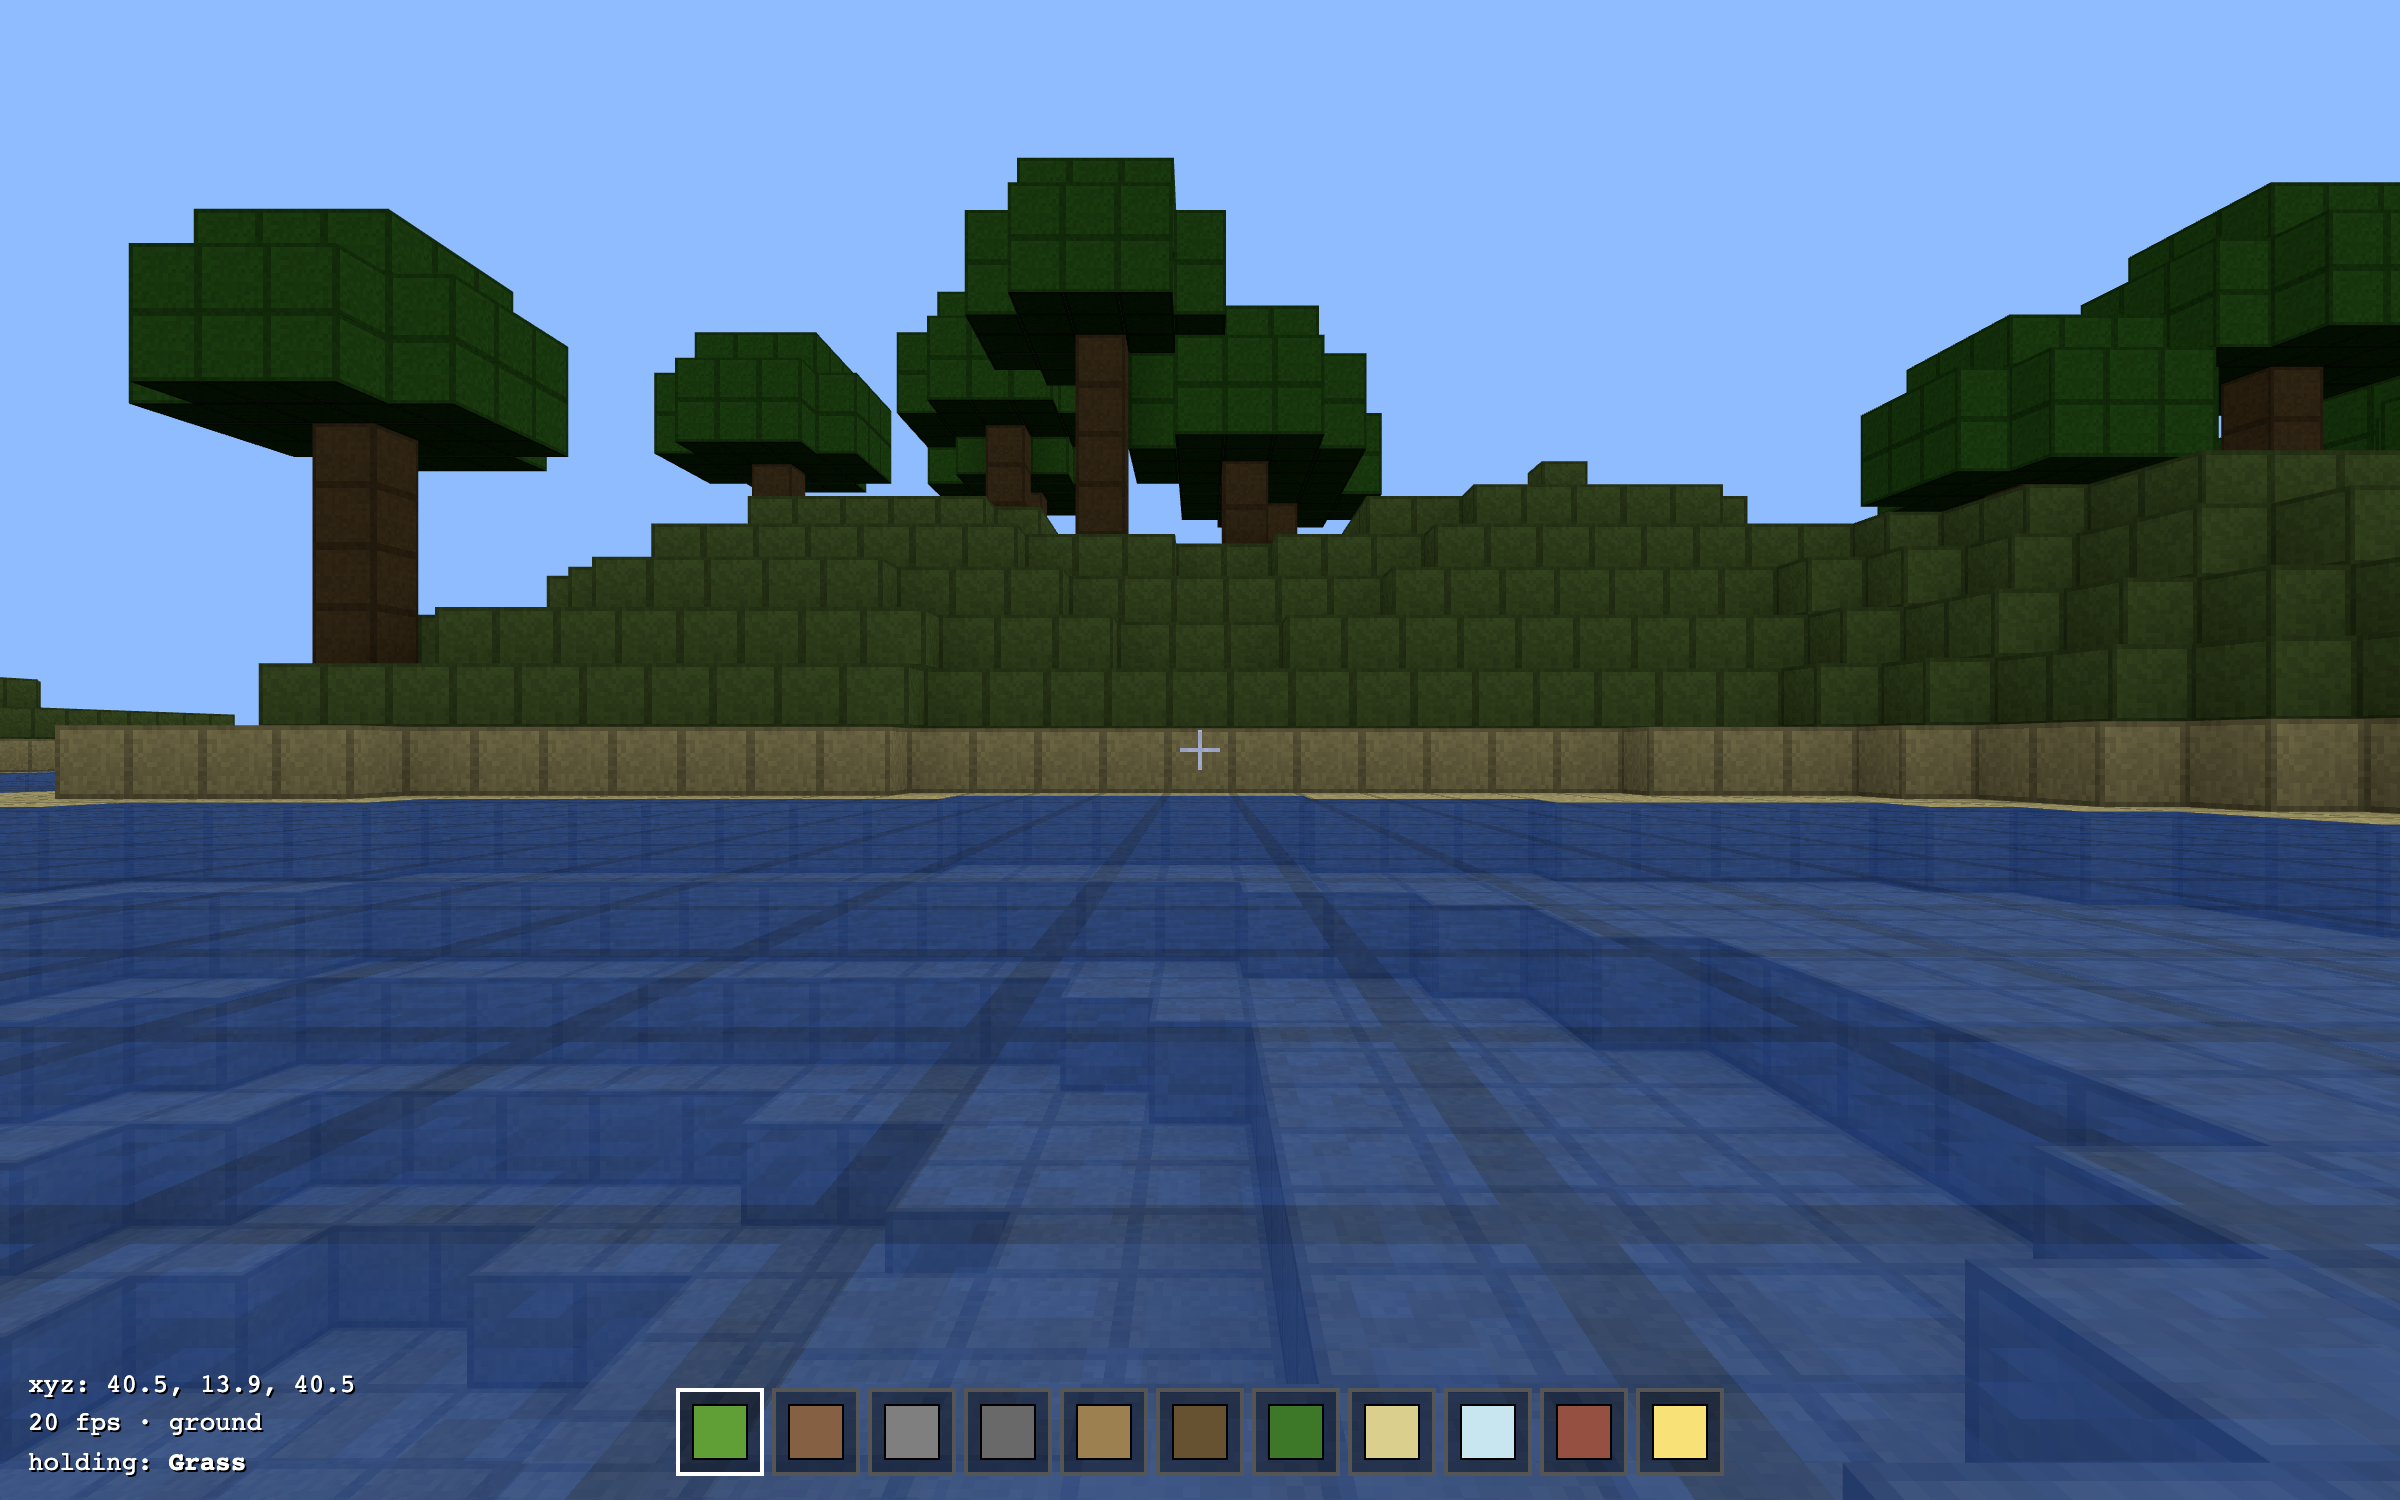
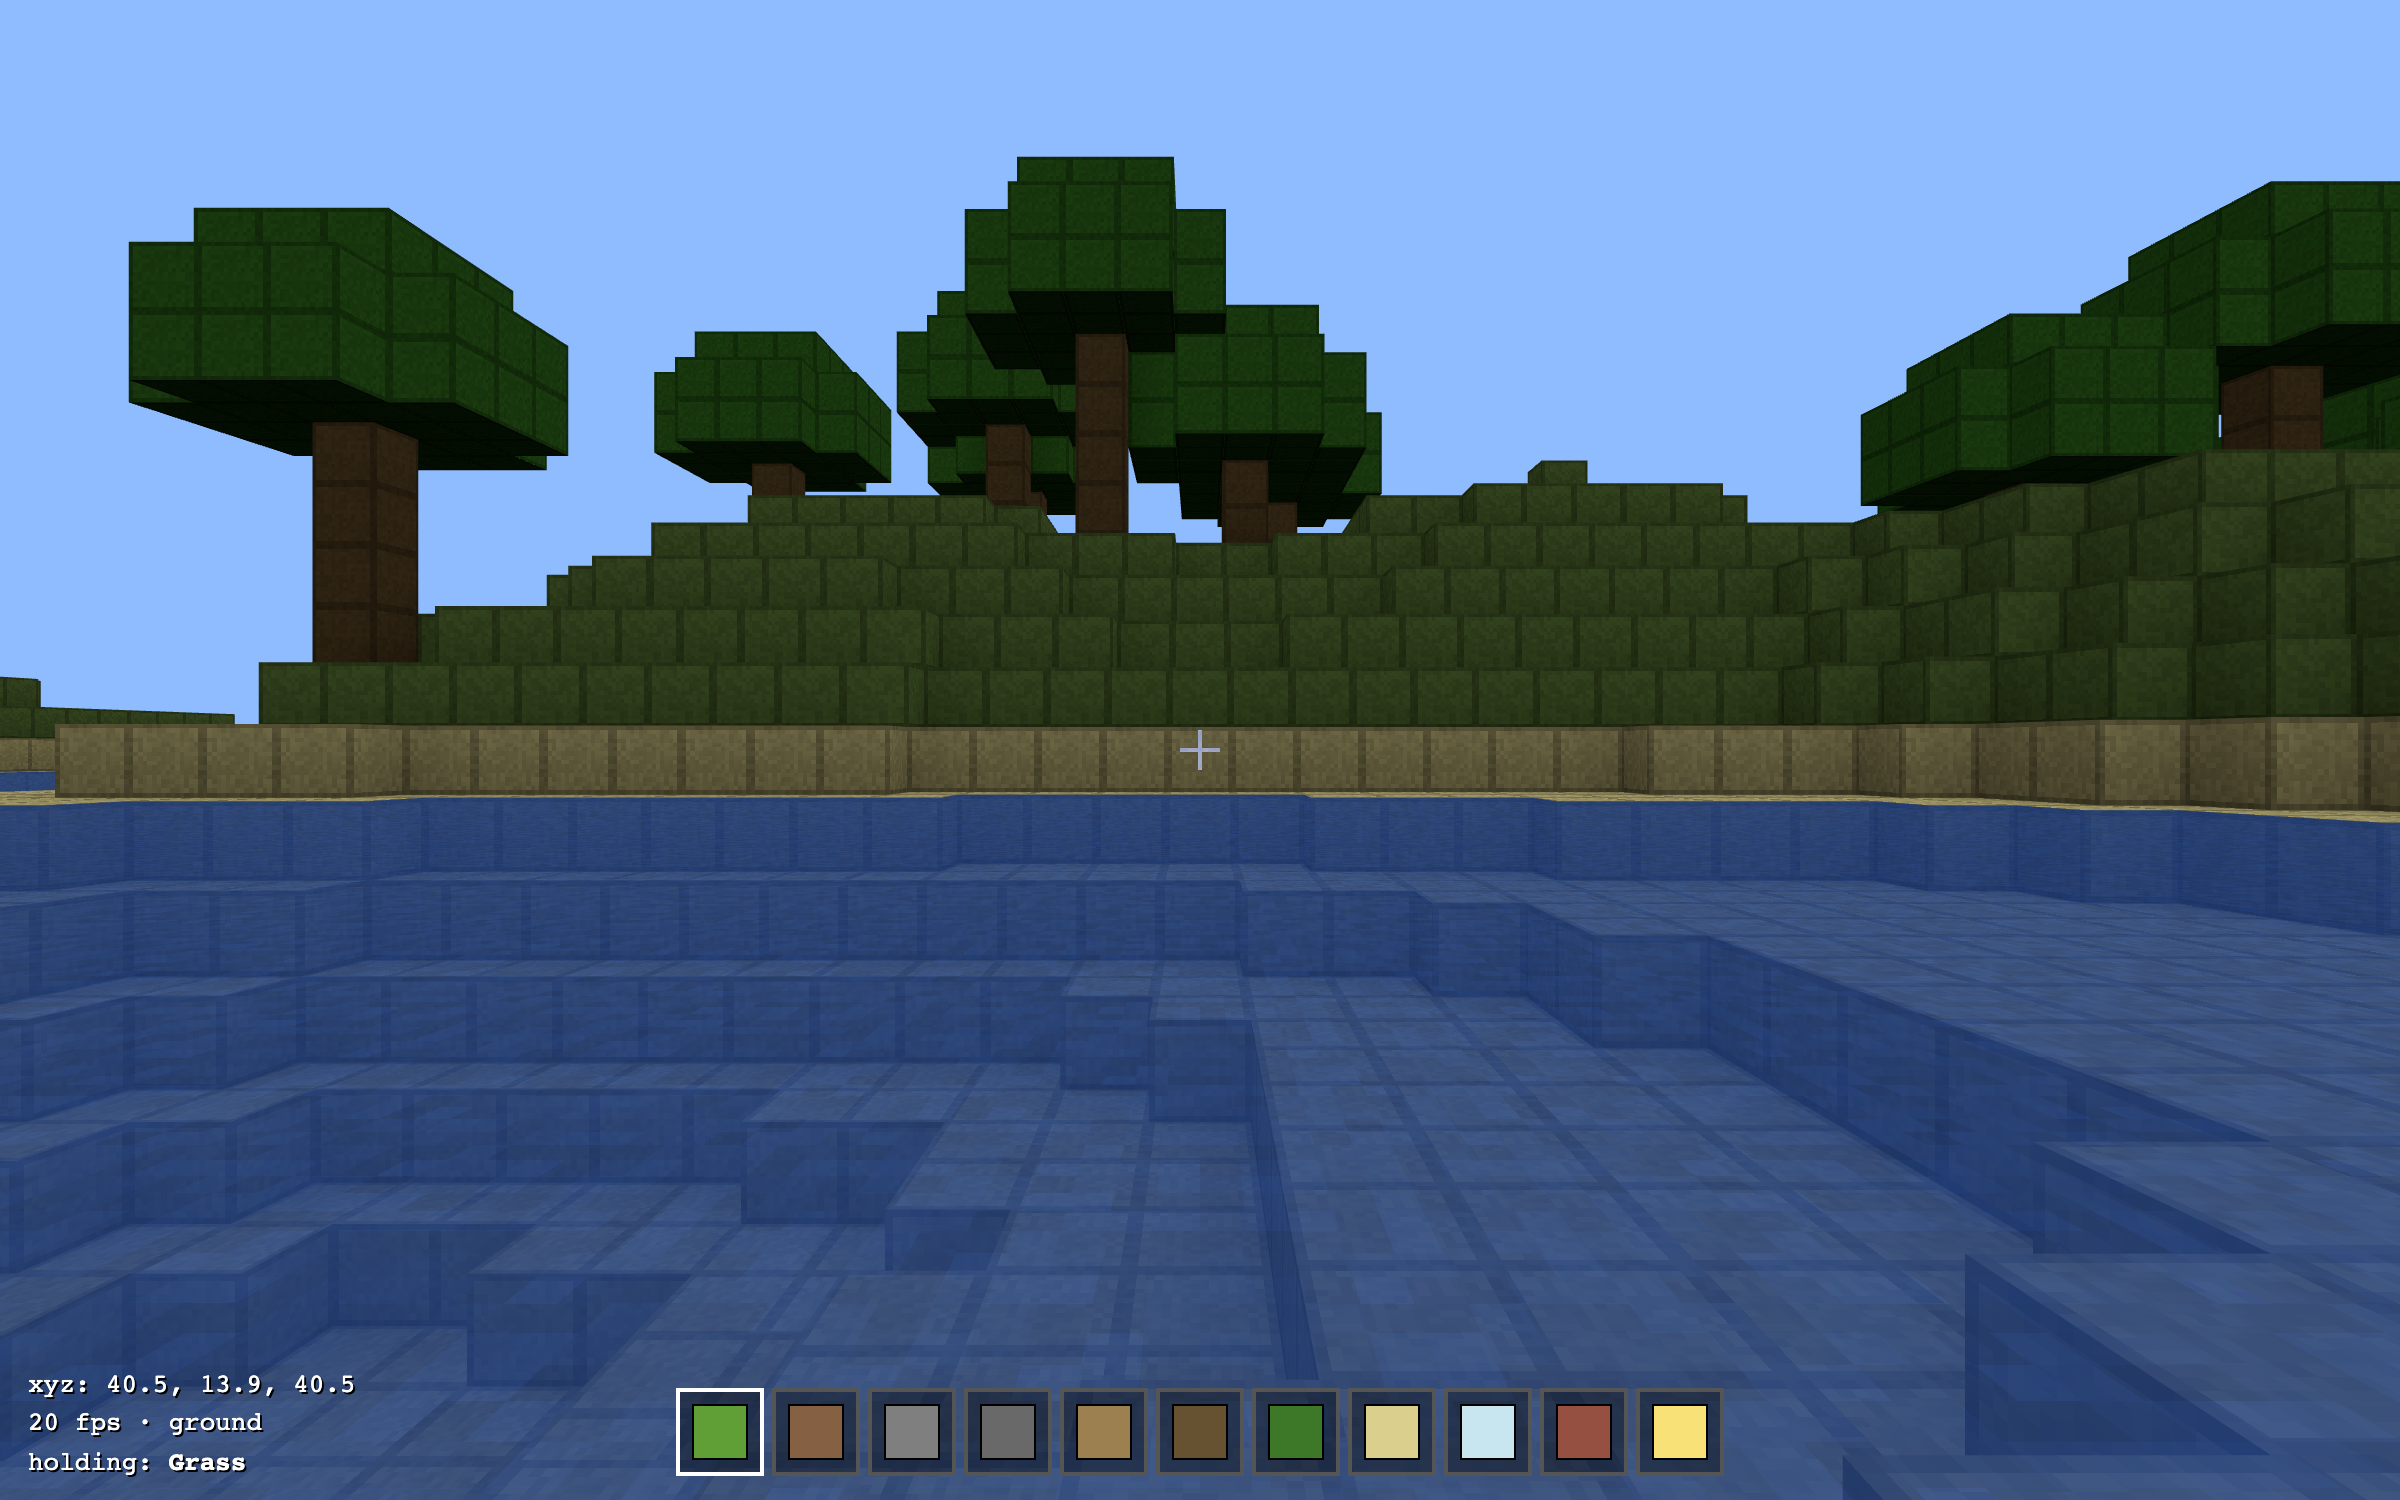
#88 Water surface: drop the per-tile edge bevel so it reads as a fluid (#88)
The procedural tile generator darkens a 1px edge bevel on every tile for cube
definition. On the flat water surface that drew a dark border around every cell,
so the surface read as a checked grid of cubes. Skip the bevel for the Water
tile (keeping the subtle grain) so the water reads as a continuous fluid surface.

Render-shell only (src/render/atlasTexture.ts, outside the stryker mutate set →
mutation score unchanged at 94.05%). The texture unit test averages tile
interiors (skips the bevel) so it stays green; smoke passes; screenshot updated.
SKIP_MUTATION justified: the sole code change is render-shell, no mutated code.

🤖 Generated with Claude Code

diff --git a/src/render/atlasTexture.ts b/src/render/atlasTexture.ts
@@ -23,7 +23,7 @@ import {
   RepeatWrapping,
   SRGBColorSpace,
 } from "three";
-import { TILE_COLOR, TILE_COUNT, type TileIndex } from "../core/atlas";
+import { Tile, TILE_COLOR, TILE_COUNT, type TileIndex } from "../core/atlas";
 
 /** Deterministic value in [0,1) from integer coords — a hashed substitute for noise. */
 function hash01(x: number, y: number, t: number): number {
@@ -33,10 +33,15 @@ function hash01(x: number, y: number, t: number): number {
   return (h & 0xffff) / 0x10000;
 }
 
-/** Brightness multiplier for one texel of a tile: subtle grain + darker edge bevel. */
+/**
+ * Brightness multiplier for one texel of a tile: subtle grain + a darker 1px edge
+ * bevel that gives solid blocks their cube definition. Water is a continuous fluid
+ * surface, not a stack of blocks, so it skips the bevel — otherwise every cell's edge
+ * draws a dark border and a flat water surface reads as a checked grid of cubes.
+ */
 function patternFactor(tx: number, ty: number, tile: number, n: number): number {
   const onEdge = tx === 0 || ty === 0 || tx === n - 1 || ty === n - 1;
-  const bevel = onEdge ? 0.8 : 1.0;
+  const bevel = onEdge && tile !== Tile.Water ? 0.8 : 1.0;
   const grain = 0.86 + 0.14 * hash01(tx, ty, tile);
   return bevel * grain;
 }